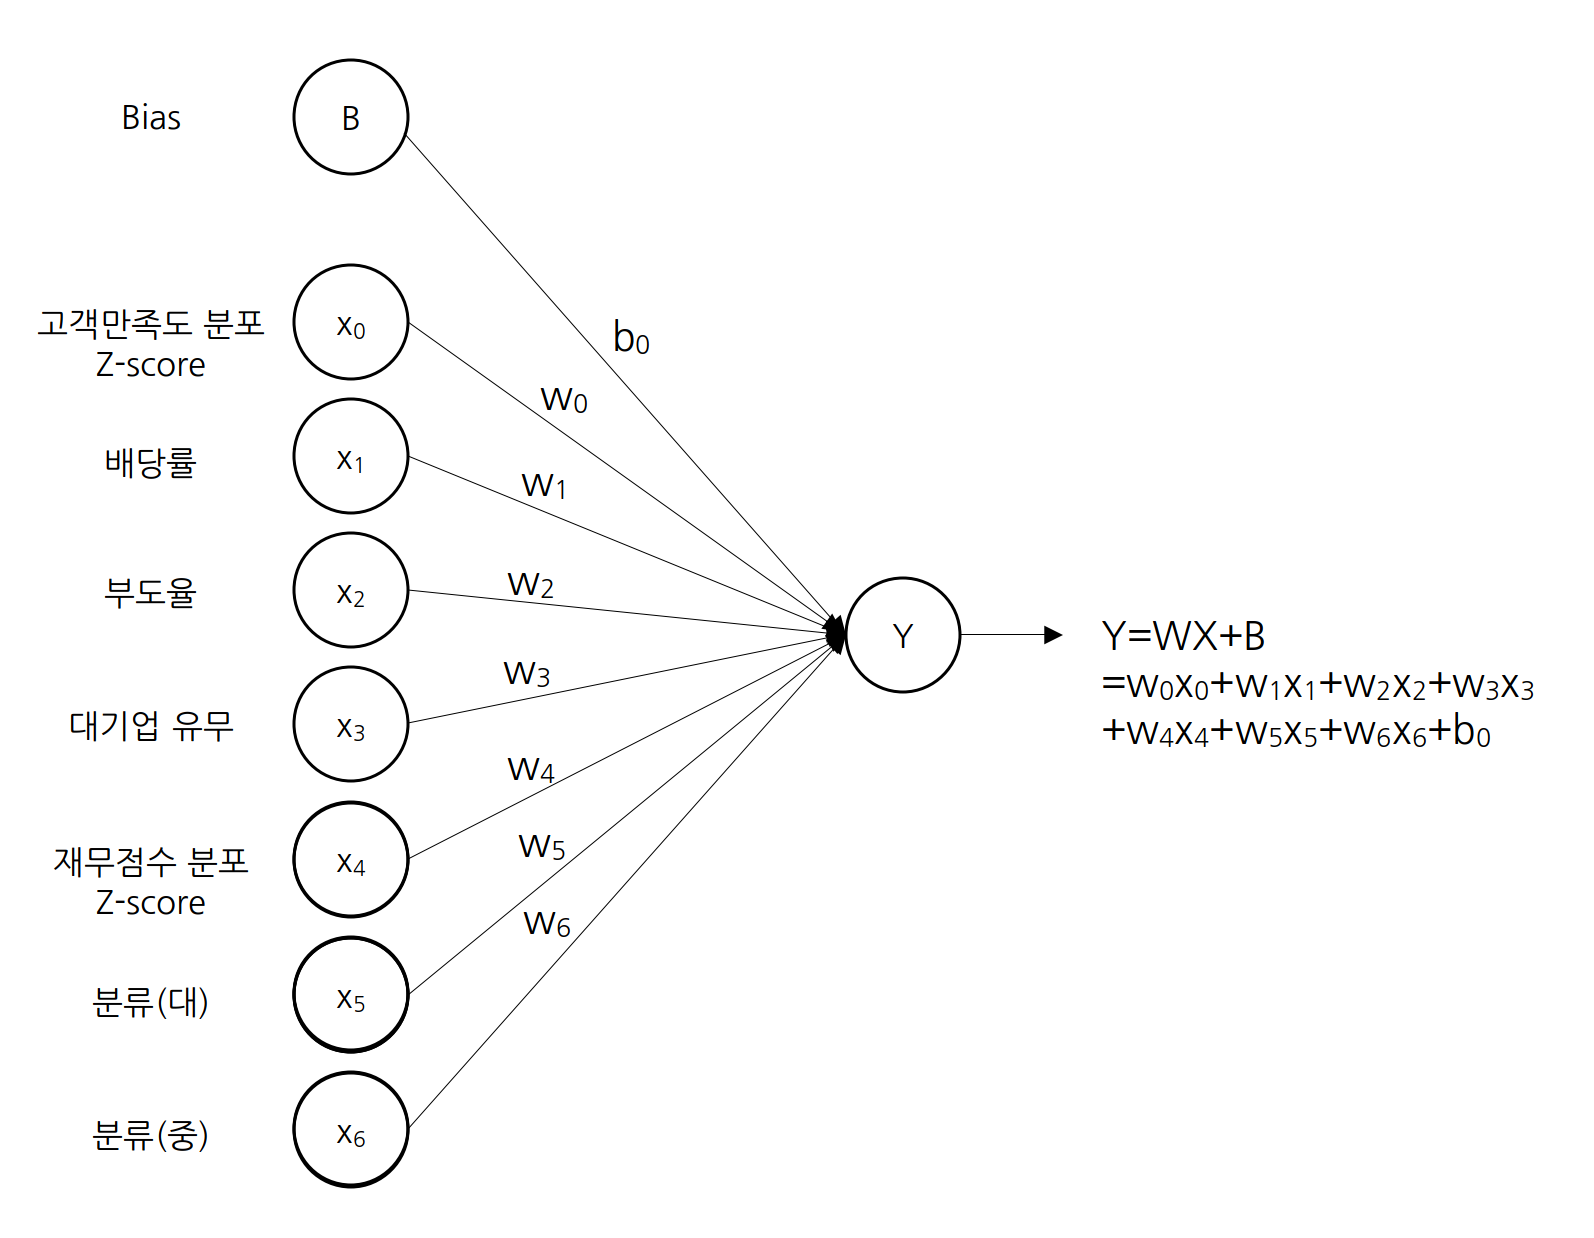
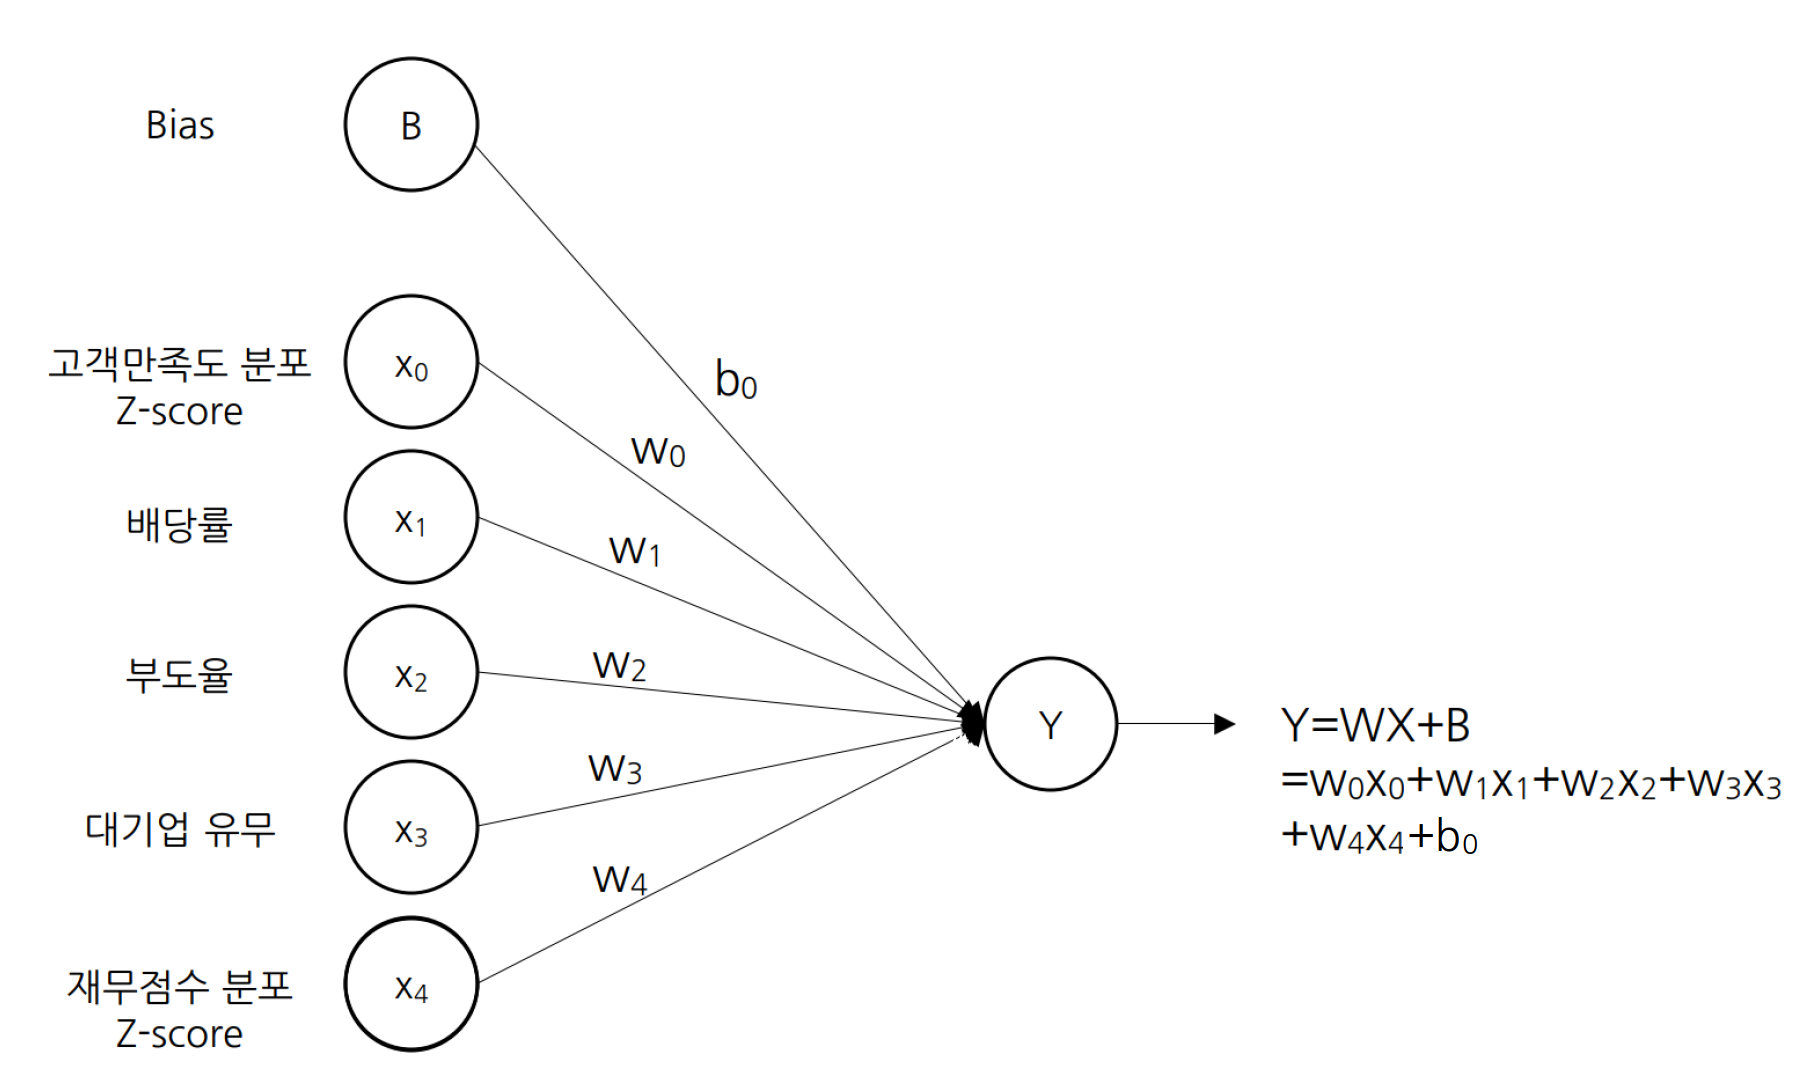
update

diff --git a/SLP.py b/SLP.py
@@ -1,6 +1,7 @@
 import torch
 import pickle
 import random
+import config
 
 class DataClass:
     def __init__(self):
@@ -87,6 +88,9 @@ class DataClass:
 def wall():
     print("================================================")
 
+def light_wall():
+    print("------------------------------------------------")
+
 def one_layer_net(inputs, target, active, params):
     #inputs : (1, n)
     #W1 : (N, 1)
@@ -105,7 +109,7 @@ def one_layer_net(inputs, target, active, params):
     return loss, grads
 
 def SLP_trainer(input_seq, target_seq, active_seq, learning_rate, decay, epoch):
-    option_size = 7
+    option_size = config.option_size
     params = {}
     params['W1'] = torch.randn(option_size, 1)
     params['b1'] = torch.zeros(1, 1)
@@ -147,23 +151,37 @@ def main():
     test_target_seq = {}
     test_active_seq = {}
     test_check_list = {}
+
+    num_satis = 0
+    num_rate = 0
+    num_both = 0
+    test_num_satis = 0
+    test_num_rate = 0
+    test_num_both = 0
     
     i = 0
     j = 0
-    test_set_num = 10000
+    test_set_num = config.num_sample
     for d in range(len(data)):
         input_box = []
         active = []
         check = ''
+        satis = 0
+        rate = 0
+        both = 0
         if data[d].get_satisNormalDist()!=None:
             input_box.append(data[d].get_satisNormalDist())
             active.append(0)
             check += '0'
+            satis = 1
         
         if data[d].get_rate()!=None:
             input_box.append(data[d].get_rate())
             active.append(1)
             check += '1'
+            rate = 1
+            if satis == 1:
+                both = 1
 
         if data[d].get_budoRate()!=None:
             input_box.append(data[d].get_budoRate())
@@ -179,52 +197,66 @@ def main():
             input_box.append(data[d].get_financialStatementNormalDist())
             active.append(4)
             check += '4'
-
+        """
         if data[d].get_classification()!=None:
             input_box.append(data[d].get_classification()//10000)
             input_box.append((data[d].get_classification()//1000)%10)
             active.append(5)
             active.append(6)
             check += '56'
+        """
 
         if j<test_set_num:
             test_seq[j] = torch.FloatTensor(input_box).unsqueeze(0)
             test_target_seq[j] = torch.FloatTensor([data[d].get_creditScore()])
             test_active_seq[j] = active
             test_check_list[j] = check
+            test_num_satis += satis
+            test_num_rate += rate
+            test_num_both += both
             j += 1
         else:
             input_seq[i] = torch.FloatTensor(input_box).unsqueeze(0)
             target_seq[i] = torch.FloatTensor([data[d].get_creditScore()])
             active_seq[i] = active
             check_list[i] = check
+            num_satis += satis
+            num_rate += rate
+            num_both += both
             i += 1
 
     print("# of input sample : {}".format(len(input_seq)))
+    print('- satis           : {}'.format(num_satis))
+    print('- divident_rate   : {}'.format(num_rate))
+    print('- both            : {}'.format(num_both))
     print("# of test sample : {}".format(len(test_seq)))
+    print('- satis           : {}'.format(test_num_satis))
+    print('- divident_rate   : {}'.format(test_num_rate))
+    print('- both            : {}'.format(test_num_both))
 
     wall()
     print('3. training...')
-    lr = 0.0001
-    dc = 0.98
-    ep = 10
-    print('learning_rate : {}'.format(lr))
-    print('decay : {}'.format(dc))
-    print('epoch : {}'.format(ep))
-    params = SLP_trainer(input_seq, target_seq, active_seq, learning_rate=lr, decay=dc, epoch=ep)
+    print('learning_rate : {}'.format(config.learning_rate))
+    print('decay : {}'.format(config.decay))
+    print('total epoch : {}'.format(config.epoch))
+    light_wall()
+    params = SLP_trainer(input_seq, target_seq, active_seq, learning_rate=config.learning_rate, decay=config.decay, epoch=config.epoch)
     
     wall()
     print('4. save data...')
     with open('params.pickle', 'wb') as f:
         pickle.dump(params, f)
+    print('saved params.pickle')
 
     input_data = {'input_seq':input_seq, 'target_seq':target_seq, 'active_seq':active_seq, 'check_list':check_list}
     with open('input.pickle', 'wb') as f:
         pickle.dump(input_data, f)
+    print('saved input.pickle')
     
     test = {'test_seq':test_seq, 'test_target_seq':test_target_seq, 'test_active_seq':test_active_seq, 'test_check_list':test_check_list}
     with open('test.pickle', 'wb') as f:
         pickle.dump(test, f)
+    print('saved test.pickle')
     
     error = []
     wall()
@@ -233,11 +265,12 @@ def main():
         error.append(((test_target_seq[i] - one_layer_net(test_seq[i], None, test_active_seq[i], params))**2)**0.5)
     print("average error : {}".format(sum(error, 0.0)/len(error)))
     wall()
-    print("7. finish")
+    print("7. analysis weight")
+    print_weight()
     wall()
 
 def test():
-    with open('output.pickle', 'rb') as f:
+    with open('params.pickle', 'rb') as f:
         params = pickle.load(f)
 
     with open('test.pickle', 'rb') as f:
@@ -248,5 +281,17 @@ def test():
         error.append(((test['test_target_seq'][i] - one_layer_net(test['test_seq'][i], None, test['test_active_seq'][i], params))**2)**0.5)
     print("average error : {}".format(sum(error, 0.0)/len(error)))
 
+def print_weight():
+    with open('params.pickle', 'rb') as f:
+        params = pickle.load(f)
+
+    print('satis_dist        : {}'.format(params['W1'][0]))
+    print('divident_rate     : {}'.format(params['W1'][1]))
+    print('budo_rate         : {}'.format(params['W1'][2]))
+    print('isBig             : {}'.format(params['W1'][3]))
+    print('financial_dist    : {}'.format(params['W1'][4]))
+    #print('classification(1) : {}'.format(params['W1'][5]))
+    #print('classification(2) : {}'.format(params['W1'][6]))
+    print('bias              : {}'.format(params['b1']))
 
 main()

diff --git a/config.py b/config.py
@@ -1,0 +1,5 @@
+option_size = 5
+num_sample = 10000
+learning_rate = 0.0001
+decay = 0.98
+epoch = 3

diff --git a/readme.md b/readme.md
@@ -1,8 +1,13 @@
 비재무 재표를 이용한 자동 신용 등급 예측 프로그램
 
+요구 사항
+-pytorch
+
 모델 구조
 1. single_layer_perceptron
 ![single_layer](./image/single_layer.png)
+결과
+![single_layer_result](./image/single_layer_result.png)
 
 2. multi_layer_perceptron -- 개발 중...
 ![multi_layer](./image/multi_layer.png)
